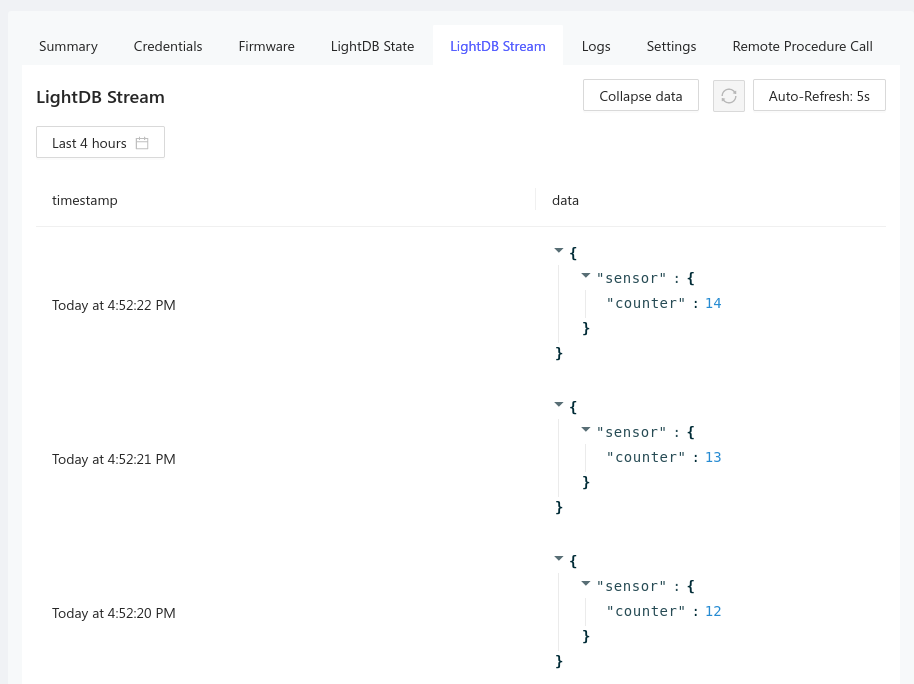
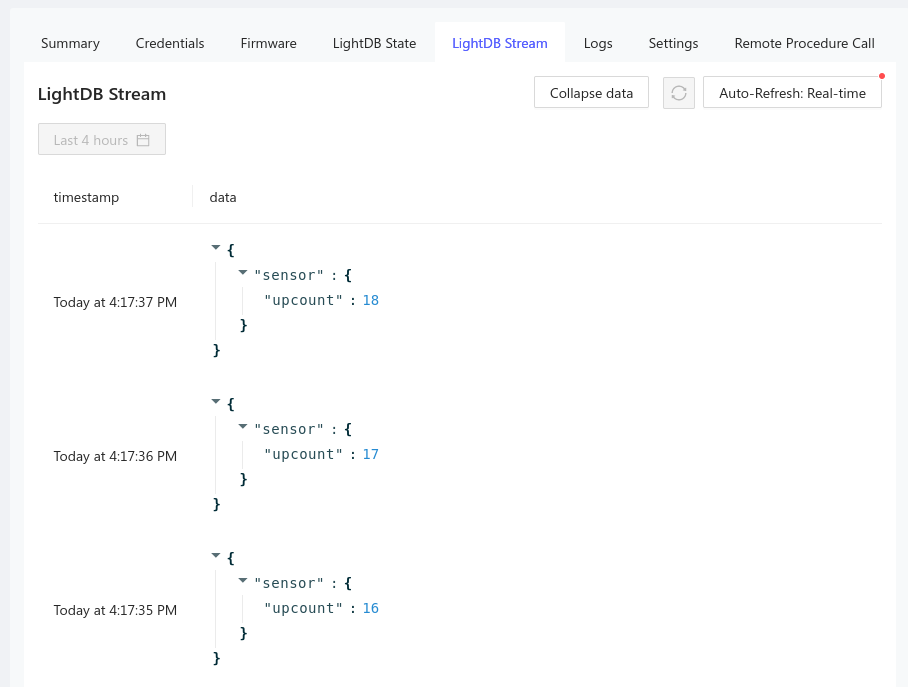
05_golioth: update stream example for API changes
The type-based stream API calls were deprecated. Use the JSON object API call to
stream.

diff --git a/website/docs/zephyr-training/05_golioth/lightdb_stream.md b/website/docs/zephyr-training/05_golioth/lightdb_stream.md
@@ -42,18 +42,24 @@ this exercise:
 
 :::
 
-* In the `main()` function of `05_golioth/src/main.c`:
-
-    1. Add the header file for Stream data: `CONFIG_GOLIOTH_STREAM=y`
-    2. In the `main()` function:
-        1. Add a `golioth_stream_set_int_async()` function call to the main loop
-        2. Use `"sensor"` as the endpoint
-        3. Use `counter` as the payload
-        4. We'll use `NULL` as the callback for this example
-
-* In the '05_golioth/prj.conf' file:
+* In the `05_golioth/prj.conf` file:
 
     1. Add the Kconfig symbol for Stream data: `CONFIG_GOLIOTH_STREAM=y`
+
+* In `05_golioth/src/main.c` file:
+
+    1. Add the header file for Stream data: `#include <golioth/stream.h>`
+    2. In the `main()` function:
+        1. Prepare a char array and create a JSON string in it
+            1. Use `"upcount"` as the key
+            2. Use `counter` as the value
+        2. Add a `golioth_stream_set_async()` function call to the main loop
+            1. Use `"sensor"` as the endpoint
+            2. Use `GOLIOTH_CONTENT_TYPE_JSON` as the content type
+            3. Use your char array as the buffer
+            4. Use the `sizeof()` your char array as the buffer length
+            5. We'll use `NULL` as the callback for this example
+            6. We'll use `NULL` as the callback argument
 
 <details>
     <summary>Click to reveal the solution</summary>
@@ -71,14 +77,17 @@ Excerpts from `main.c`:
 	while (1) {
 		printk("This is the main loop: %d\n", counter);
 
-		snprintk(sbuf, sizeof(sbuf), "{\"counter\":%d}", counter);
-
         // highlight-start
-		golioth_stream_set_int_async(client,
-					     "sensor/counter",
-					     counter,
-					     NULL,
-					     NULL);
+		char sbuf[32];
+		snprintk(sbuf, sizeof(sbuf), "{\"upcount\":%d}", counter);
+
+		golioth_stream_set_async(client,
+					 "sensor",
+					 GOLIOTH_CONTENT_TYPE_JSON,
+					 sbuf,
+					 sizeof(sbuf),
+					 NULL,
+					 NULL);
         // highlight-end
 
 		++counter;
